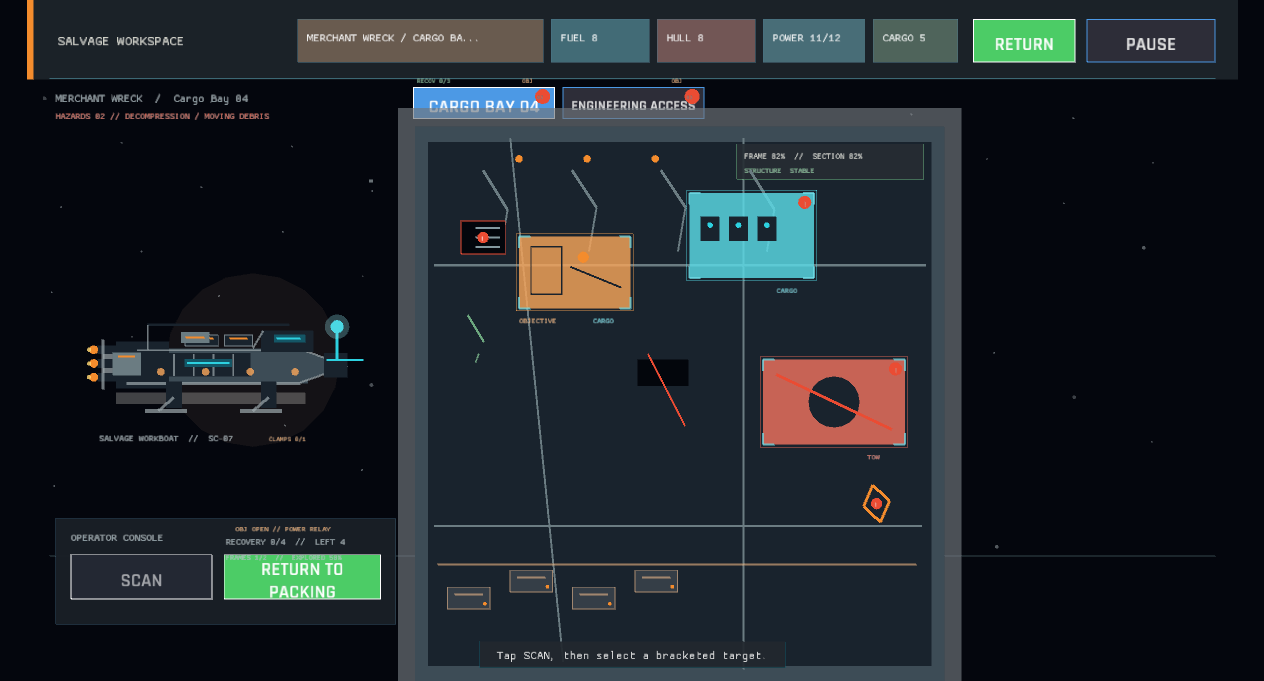
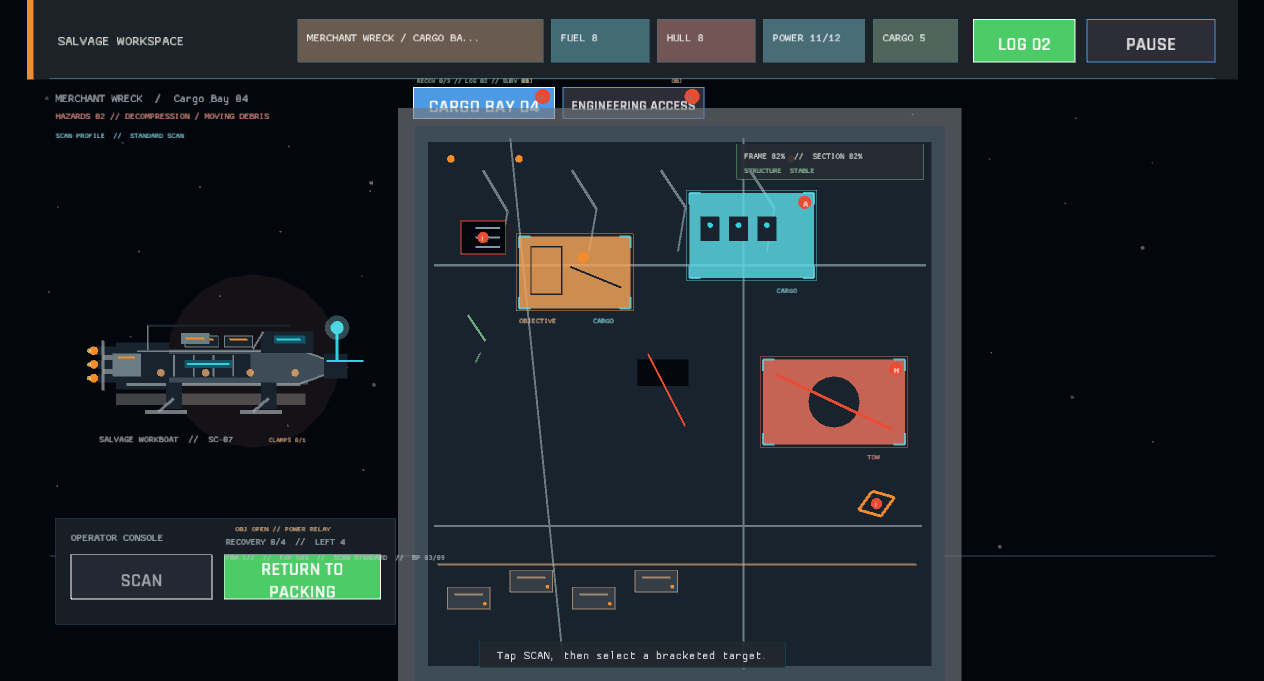
The wreck console keeps the blueprint count in working memory (workspace progression readout)
The active salvage console now carries the unlocked blueprint count beside frame, exploration, and scan status. The compact workspace helper test and refreshed scan capture keep the progression signal available during the core extraction decision.

diff --git a/src/ui/salvage_scene.rs b/src/ui/salvage_scene.rs
@@ -409,6 +409,7 @@ fn draw_command_panel(ctx: &UiContext<'_>, layout: SalvageLayout, actions: &mut 
         let recovery = ctx
             .session
             .site_recovery_status(&expedition.site_id, ctx.data);
+        let blueprint_progress = workspace_blueprint_label(ctx.session, ctx.data);
         let scan_suffix = if !ctx.workspace_scanned
             && section_arrival_ready(ctx.workspace_camera_shift, ctx.workspace_elapsed)
             && ctx.workspace_scan_progress <= 0.0
@@ -433,11 +434,12 @@ fn draw_command_panel(ctx: &UiContext<'_>, layout: SalvageLayout, actions: &mut 
         );
         draw_text(
             format!(
-                "FRM {}/{}  //  EXP {:02}%  //  SCAN {}",
+                "FRM {}/{}  //  EXP {:02}%  //  SCAN {}  //  {}",
                 recovery.explored_sections,
                 recovery.total_sections,
                 recovery.exploration_percent,
-                expedition.scan_profile.short_label()
+                expedition.scan_profile.short_label(),
+                blueprint_progress
             ),
             layout.command.x + 180.0,
             layout.command.y + 44.0,
@@ -445,6 +447,14 @@ fn draw_command_panel(ctx: &UiContext<'_>, layout: SalvageLayout, actions: &mut 
             visual_theme::text_dim(),
         );
     }
+}
+
+fn workspace_blueprint_label(session: &GameSession, data: &GameData) -> String {
+    format!(
+        "BP {:02}/{:02}",
+        session.unlocked_module_count(data),
+        data.modules.iter().count()
+    )
 }
 
 fn drone_status_label(deployed: bool) -> &'static str {

diff --git a/src/ui/salvage_scene/tests.rs b/src/ui/salvage_scene/tests.rs
@@ -42,6 +42,14 @@ fn drone_status_names_active_pull_support() {
 }
 
 #[test]
+fn workspace_console_names_blueprint_progress() {
+    let data = crate::data::GameData::load().unwrap();
+    let session = GameSession::new(&data);
+
+    assert_eq!(workspace_blueprint_label(&session, &data), "BP 03/09");
+}
+
+#[test]
 fn hazard_notice_names_the_typed_response() {
     assert_eq!(
         hazard_response_suffix(Some(crate::engine::WorkspaceHazard::StructuralCollapse)),
